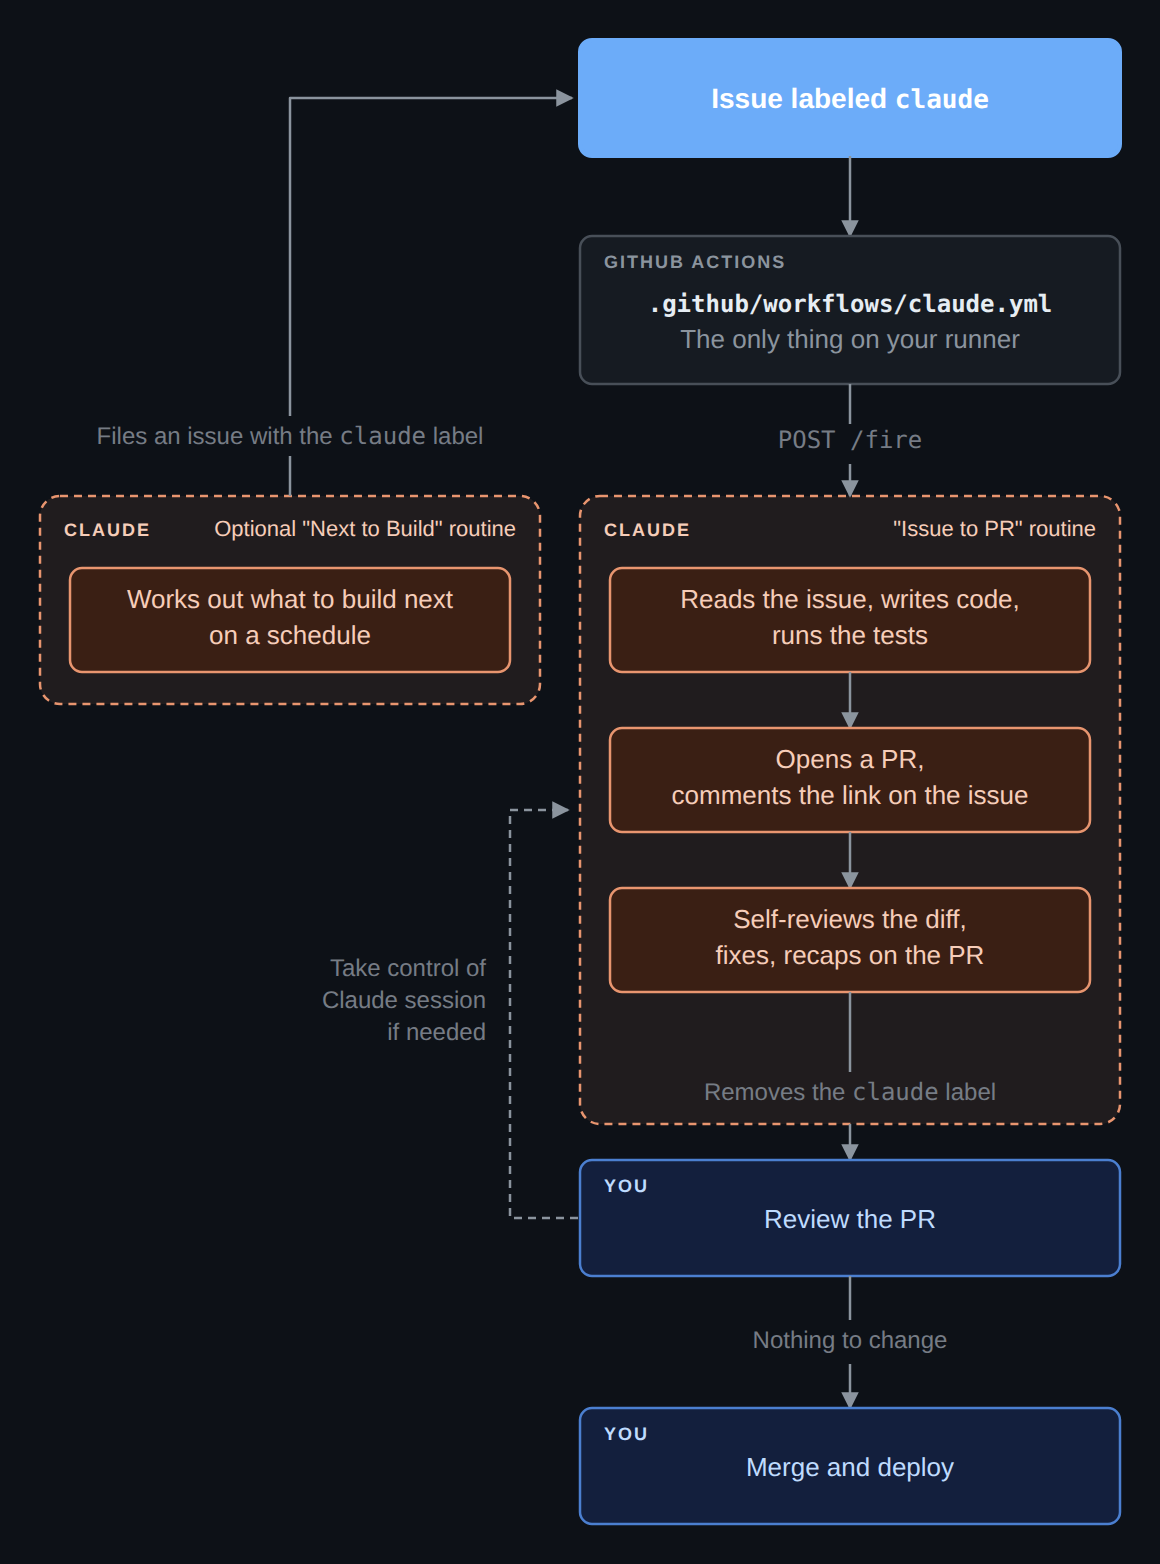
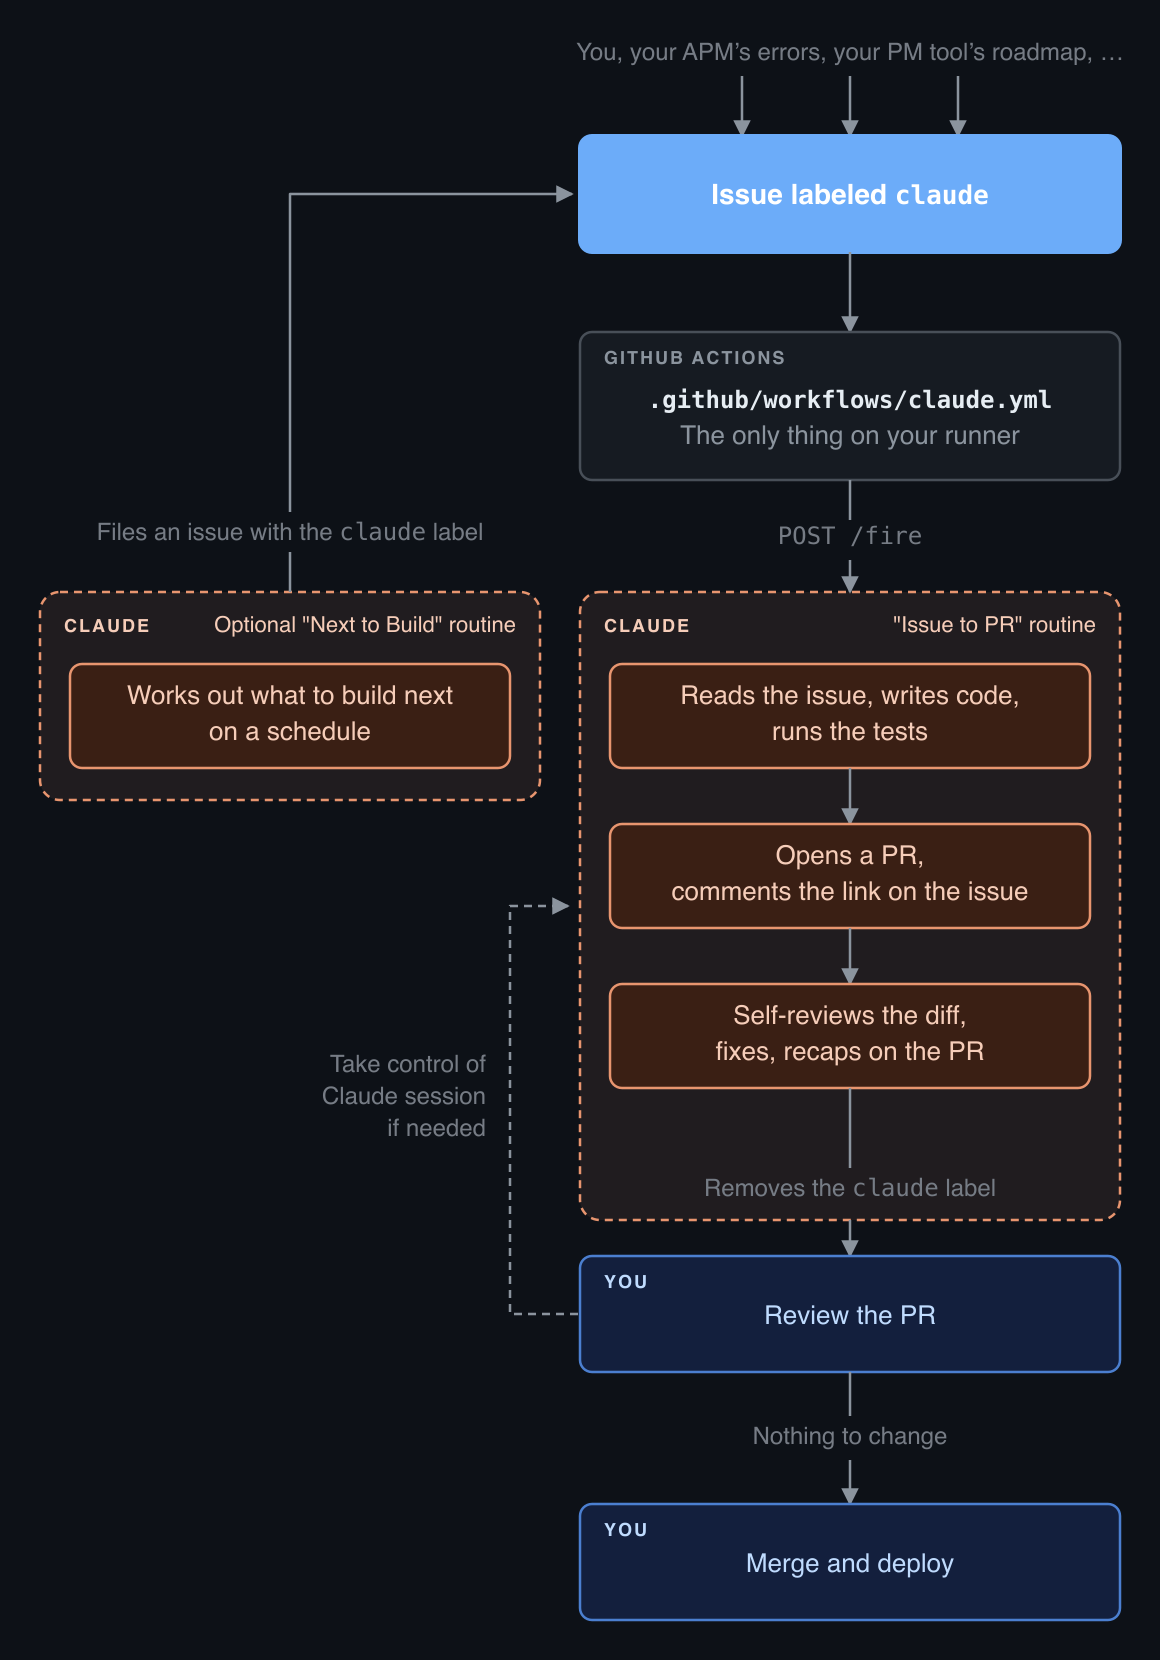
Update flowchart w/ more sources

diff --git a/README.md b/README.md
@@ -128,7 +128,7 @@ It labels the issue as your GitHub user through the Claude GitHub App, so the la
 <p align="center">
   <picture>
     <source media="(prefers-color-scheme: dark)" srcset="docs/how-it-works-dark.svg">
-    <img src="docs/how-it-works-light.svg" width="580" alt="Optionally, the Next to Build routine works out what to build next on a schedule and files an issue with the claude label. An issue labeled claude is the trigger, whether a human, a bot or that routine applies it; a GitHub Actions workflow POSTs /fire; the Issue to PR routine reads the issue, writes code, runs the tests, opens a PR, self-reviews it and removes the label. The human reviews the PR: if nothing needs to change they merge and deploy, otherwise they take control of the Claude session.">
+    <img src="docs/how-it-works-light.svg" width="580" alt="An issue labeled claude is the trigger. You file it, your APM files it on an error, your project management tool files it from its roadmap, or optionally the Next to Build routine, which works out what to build next on a schedule, files it. A GitHub Actions workflow POSTs /fire; the Issue to PR routine reads the issue, writes code, runs the tests, opens a PR, self-reviews it and removes the label. The human reviews the PR: if nothing needs to change they merge and deploy, otherwise they take control of the Claude session.">
   </picture>
   <br/><sub><a href="https://claude.ai/artifact/L4yVFvUXqjVQN1fyGa4hPv">Source</a></sub>
 </p>
